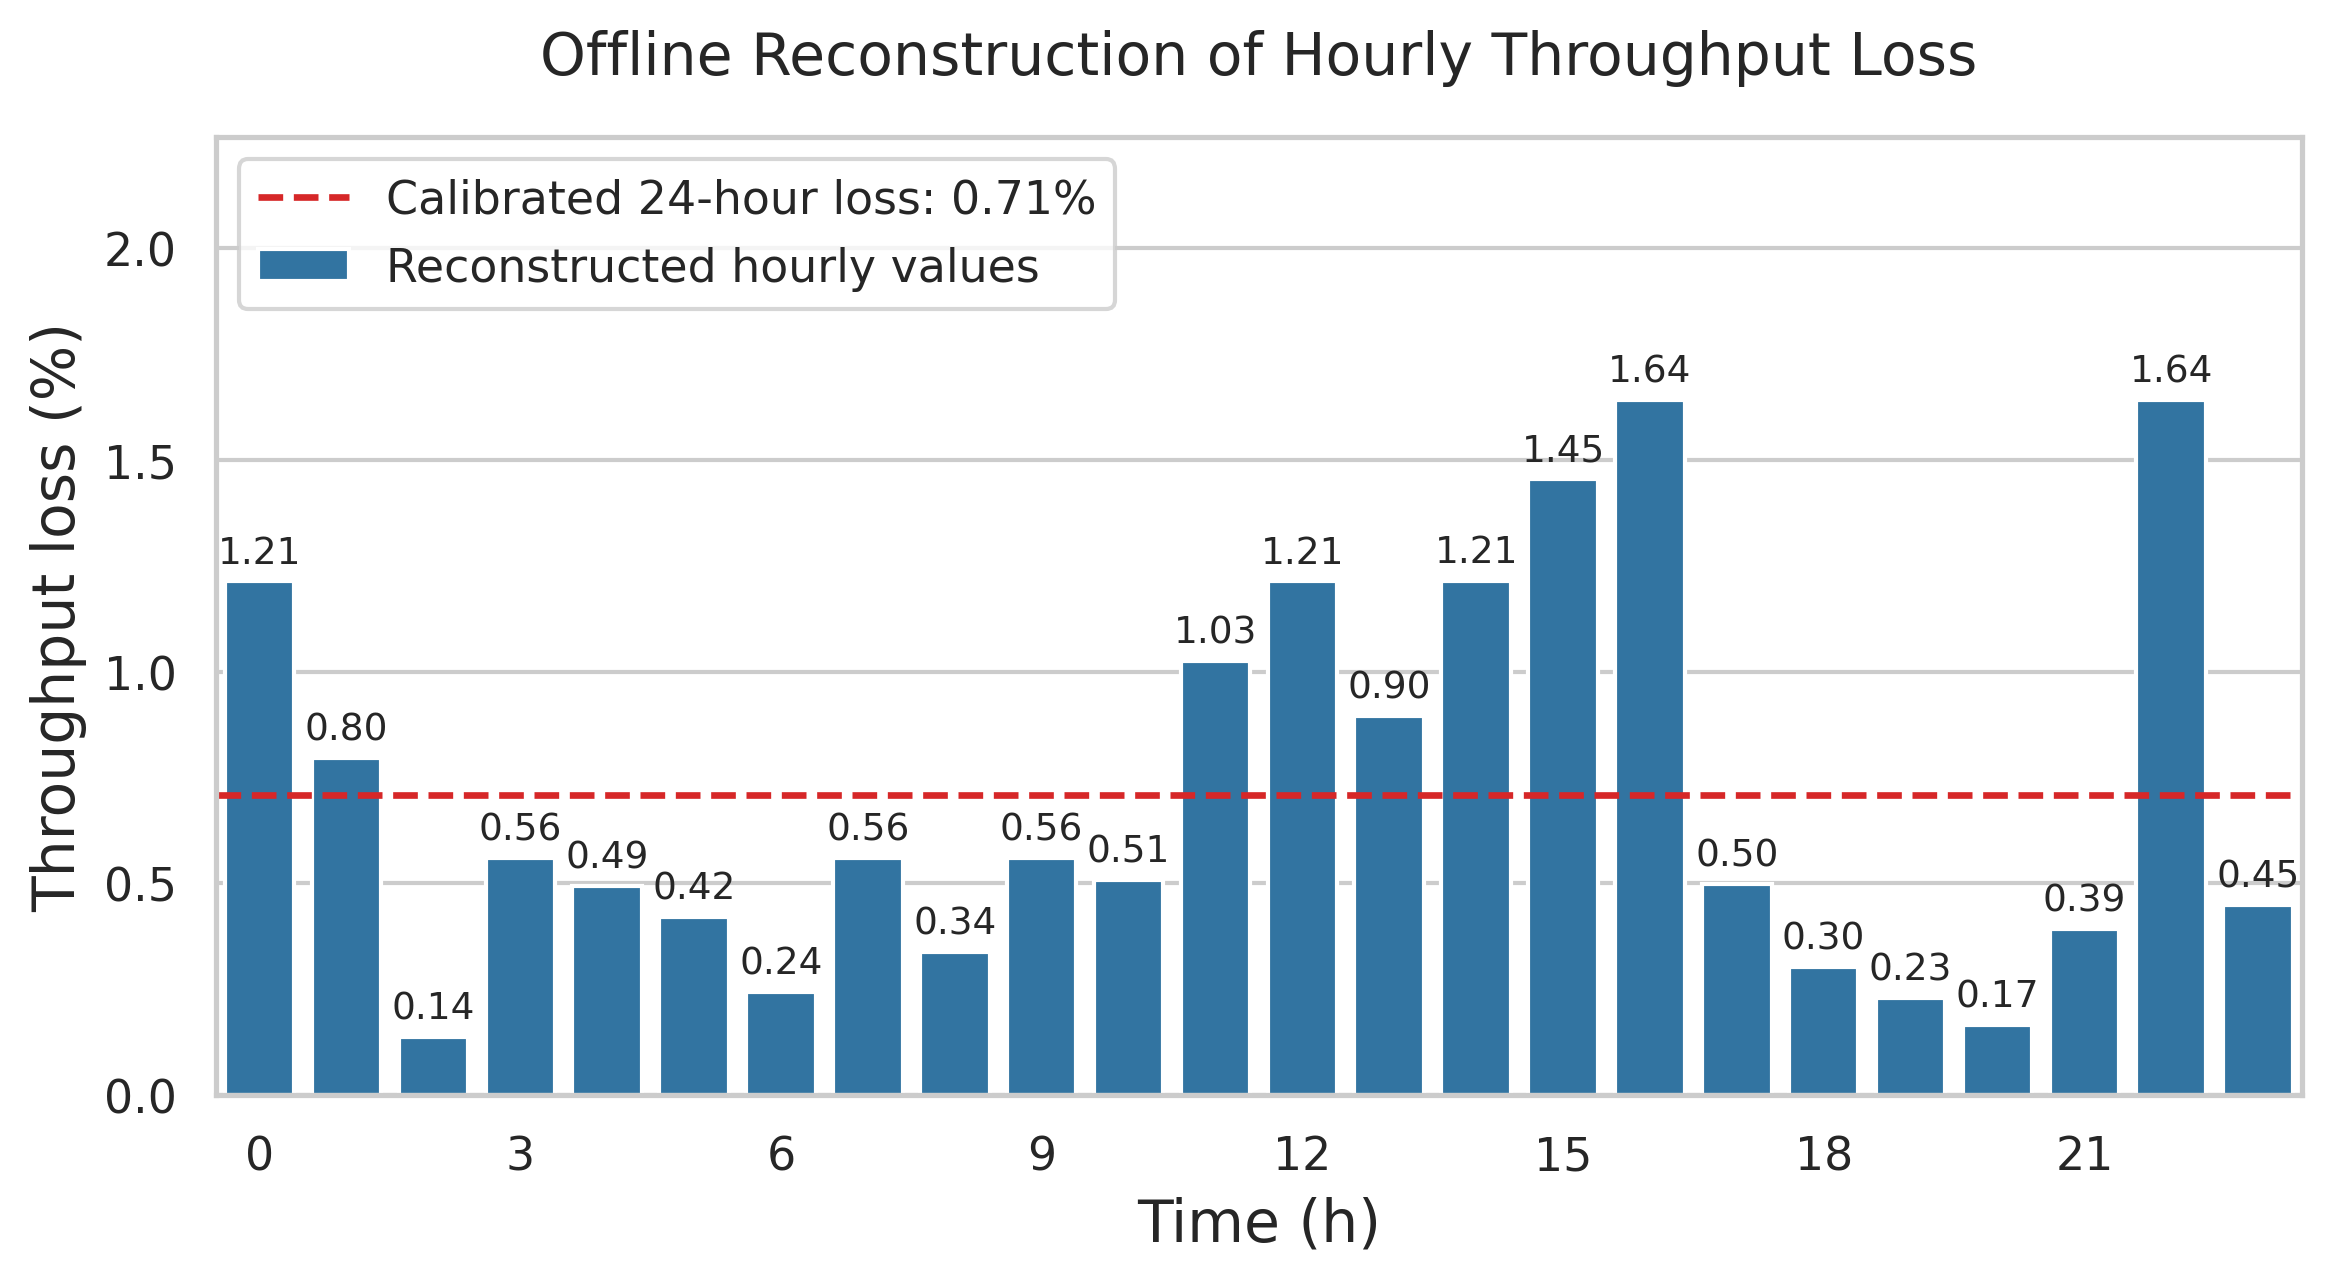
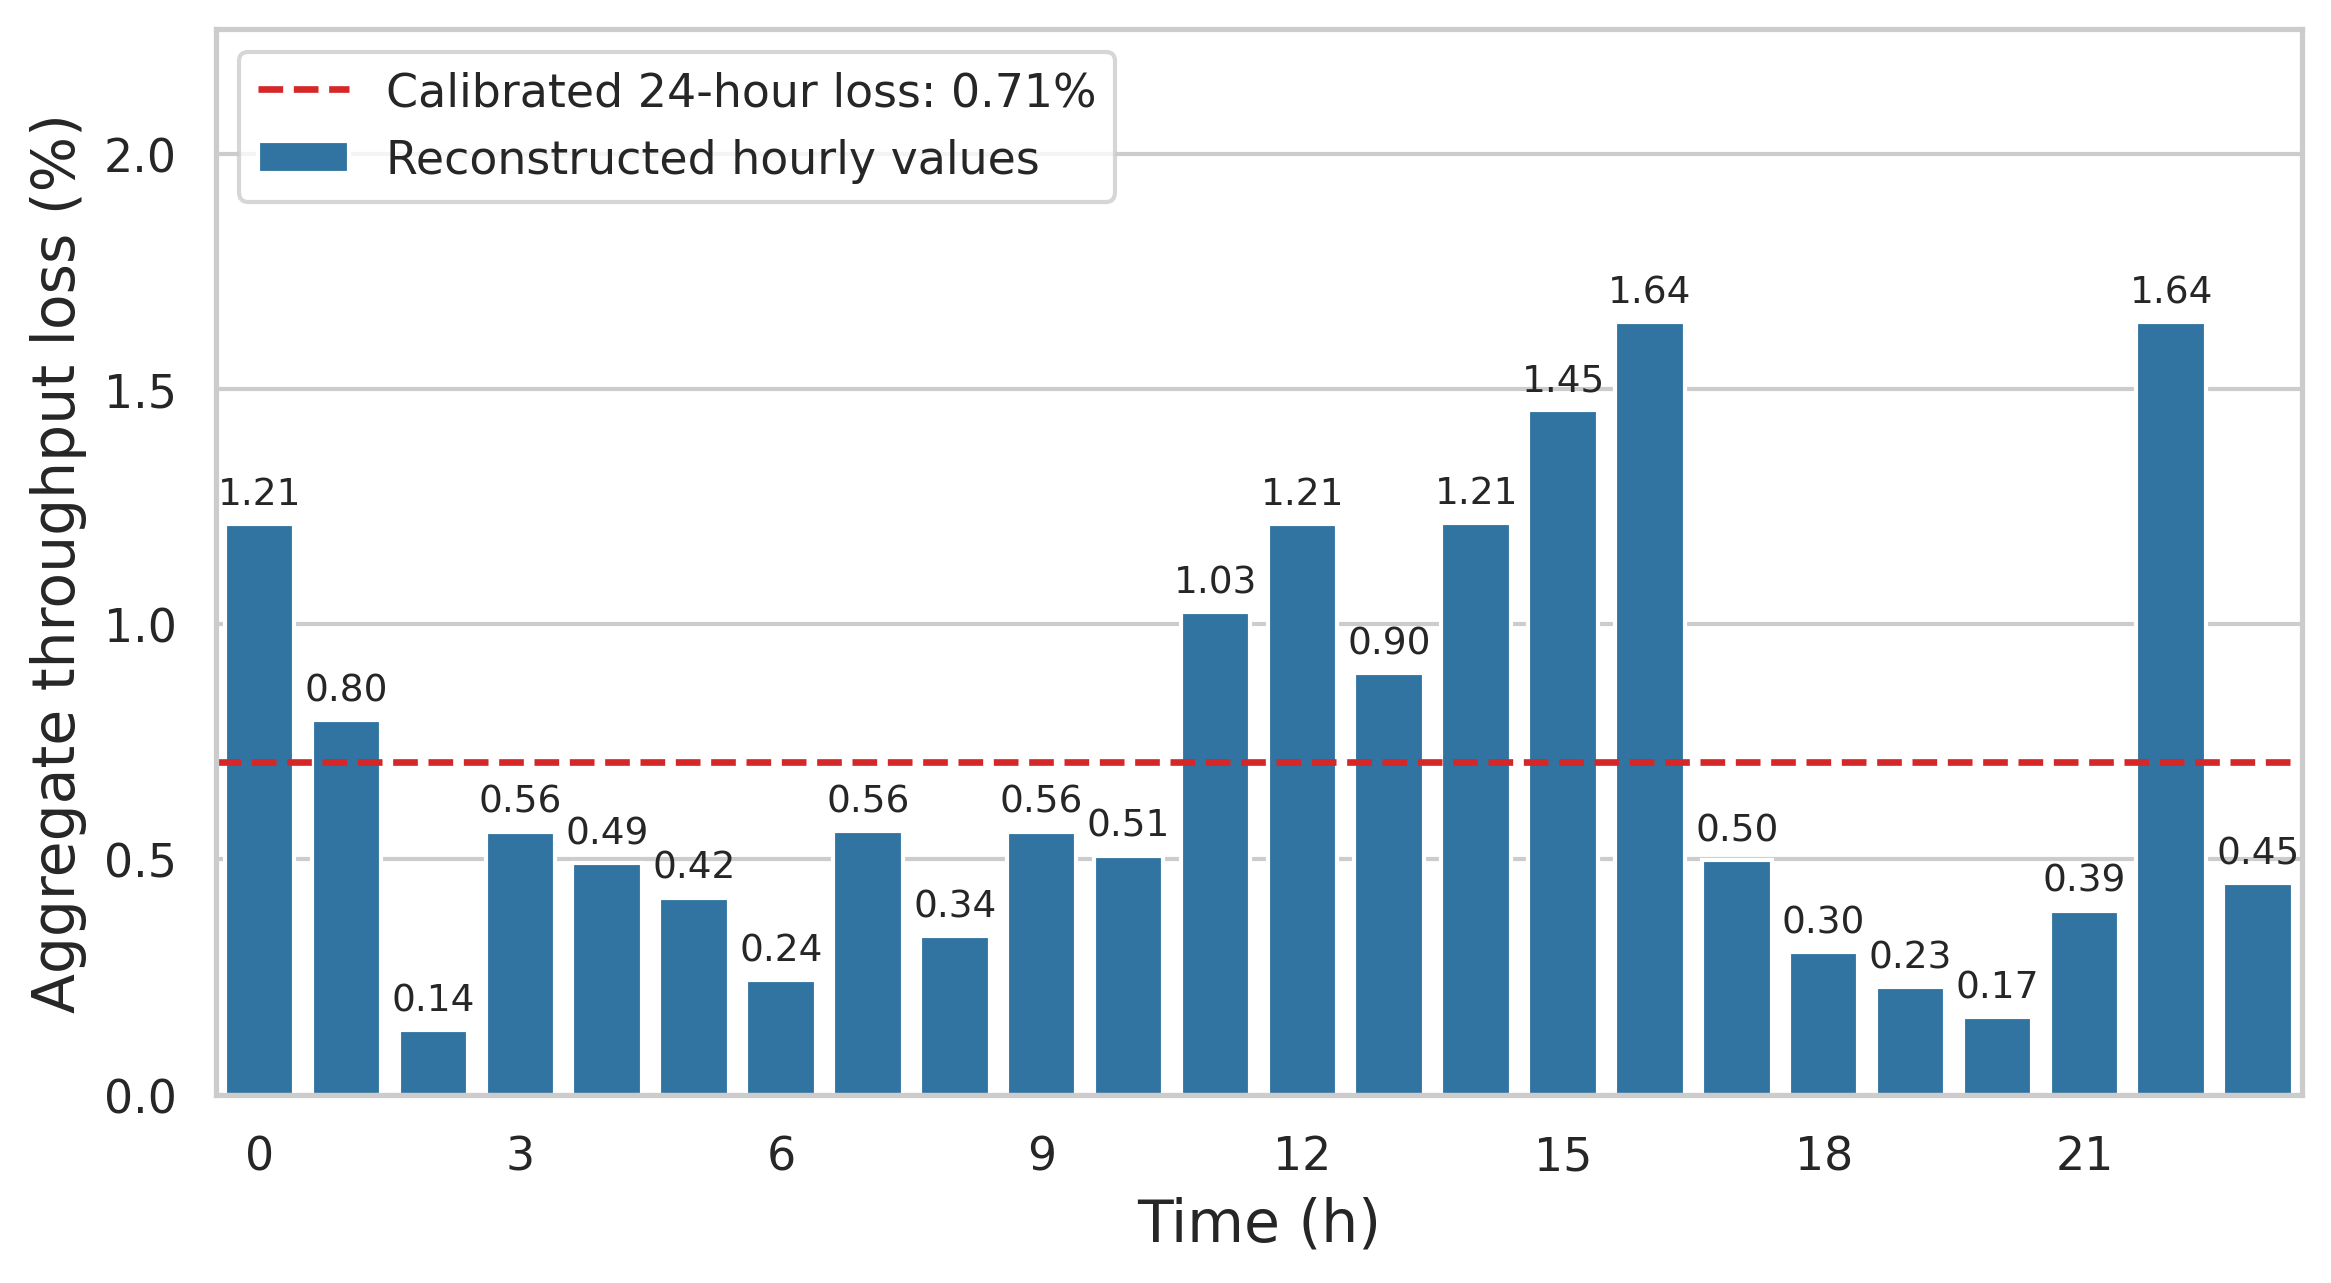
Update throughput loss output files and enhance simulation replay function with user session accounting

diff --git a/results/throughput-loss/simulate.py b/results/throughput-loss/simulate.py
@@ -50,8 +50,13 @@ def _rebalance(assignments, active, rng):
     return movers
 
 
-def replay(occupancy, power, config):
-    """Integrate user traffic and interruption windows exactly between trace events."""
+def replay(occupancy, power, config, return_users=False):
+    """Integrate traffic, optionally retaining modeled per-user session accounting.
+
+    With return_users=True, return a third DataFrame containing per-session
+    volumes and a separate accounting window for the first peak-load plateau.
+    The same random draws and traffic model are used in both modes.
+    """
     interval = config["sample_interval_seconds"]
     if not isinstance(interval, int) or interval <= 0 or 86400 % interval:
         raise ValueError("Sample interval must be a positive integer divisor of 86400.")
@@ -80,6 +85,16 @@ def replay(occupancy, power, config):
     outage_end = np.zeros(len(demands))
     totals = np.zeros((len(edges) - 1, 5))  # baseline/lost Gbit, UE/cell seconds, handovers
     events = []
+    if return_users:
+        capacity = int(ue_counts[0] + np.maximum(np.diff(ue_counts), 0).sum())
+        # Stable synthetic IDs survive array compaction when other users leave.
+        user_ids = np.arange(len(demands))
+        next_user_id = len(demands)
+        user_totals = np.zeros((capacity, 4))  # connected seconds, baseline/lost Gbit, HOs
+        peak_totals = np.zeros((capacity, 4))
+        peak_index = int(np.argmax(ue_counts))
+        peak_start = float(ue_time[peak_index]) if peak_index else 0.0
+        peak_end = float(ue_time[peak_index + 1]) if peak_index + 1 < len(ue_time) else 86400.0
 
     for start, end in zip(knots[:-1], knots[1:]):
         ue_index = max(0, np.searchsorted(ue_time, start, side="right") - 1)
@@ -89,17 +104,26 @@ def replay(occupancy, power, config):
         if desired < len(demands):
             keep = np.sort(rng.choice(len(demands), desired, replace=False))
             demands, assignments, outage_end = demands[keep], assignments[keep], outage_end[keep]
+            if return_users:
+                user_ids = user_ids[keep]
         existing = len(demands)
         if desired > existing:
             count = desired - existing
             demands = np.r_[demands, rng.uniform(low, high, count) / 1000]
             assignments = np.r_[assignments, rng.choice(new_active, count)]
             outage_end = np.r_[outage_end, np.zeros(count)]
+            if return_users:
+                user_ids = np.r_[user_ids, np.arange(next_user_id, next_user_id + count)]
+                next_user_id += count
         handovers = 0
         if not np.array_equal(new_active, active):
             movers = _rebalance(assignments, new_active, rng)
             movers = movers[movers < existing]  # Initial attachment is not a handover.
             handovers = len(movers)
+            if return_users:
+                user_totals[user_ids[movers], 3] += 1
+                if peak_start <= start < peak_end:
+                    peak_totals[user_ids[movers], 3] += 1
             # Repeated interruptions of the same UE are combined, not double-counted.
             outage_end[movers] = np.maximum(outage_end[movers], start + interruption)
             events.append({
@@ -114,6 +138,12 @@ def replay(occupancy, power, config):
         duration = end - start
         baseline_volume = float(demands.sum() * duration)
         lost_volume = float(np.dot(demands, np.clip(outage_end - start, 0, duration)))
+        if return_users:
+            values = np.column_stack((np.full(len(demands), duration), demands * duration,
+                                      demands * np.clip(outage_end - start, 0, duration)))
+            user_totals[user_ids, :3] += values
+            if peak_start <= start < peak_end:
+                peak_totals[user_ids, :3] += values
         if not 0 <= lost_volume <= baseline_volume * (1 + 1e-12):
             raise ValueError("Simulated lost volume exceeds available traffic.")
         bin_index = int(start // interval)
@@ -133,7 +163,15 @@ def replay(occupancy, power, config):
     event_columns = ["time_s", "time_h", "active_pci_before", "active_pci_after",
                      "deactivated_pci", "activated_pci", "connected_ues",
                      "simulated_handovers", "data_kind"]
-    return samples, pd.DataFrame(events, columns=event_columns)
+    event_frame = pd.DataFrame(events, columns=event_columns)
+    if return_users:
+        users = pd.DataFrame({"ue_id": [f"sim-{i:06d}" for i in range(next_user_id)]})
+        for prefix, accounting in (("session_", user_totals), ("peak_", peak_totals)):
+            for column, name in enumerate(("connected_seconds", "baseline_gbit", "lost_gbit", "handovers")):
+                users[prefix + name] = accounting[:next_user_id, column]
+        users["data_kind"] = DATA_KIND
+        return samples, event_frame, users
+    return samples, event_frame
 
 
 def generate_inputs(config_path=CONFIG, input_dir=None):

diff --git a/results/throughput-loss/plot.py b/results/throughput-loss/plot.py
@@ -169,7 +169,6 @@ def generate(output_dir):
     ax.set(xlim=(-0.5, 23.5), xticks=np.arange(0, 24, 3), ylim=(0, hourly_loss.max() * 1.38))
     ax.set_xlabel("Time (h)", fontsize=14)
     ax.set_ylabel("Aggregate throughput loss (%)", fontsize=14)
-    ax.set_title("Offline Reconstruction of Hourly Throughput Loss", pad=15, fontsize=14)
     ax.legend(loc="upper left", frameon=True, fontsize=11)
     for hour, value in enumerate(hourly_loss):
         ax.annotate(f"{value:.2f}", (hour, value + 0.025), ha="center", va="bottom", fontsize=9)
